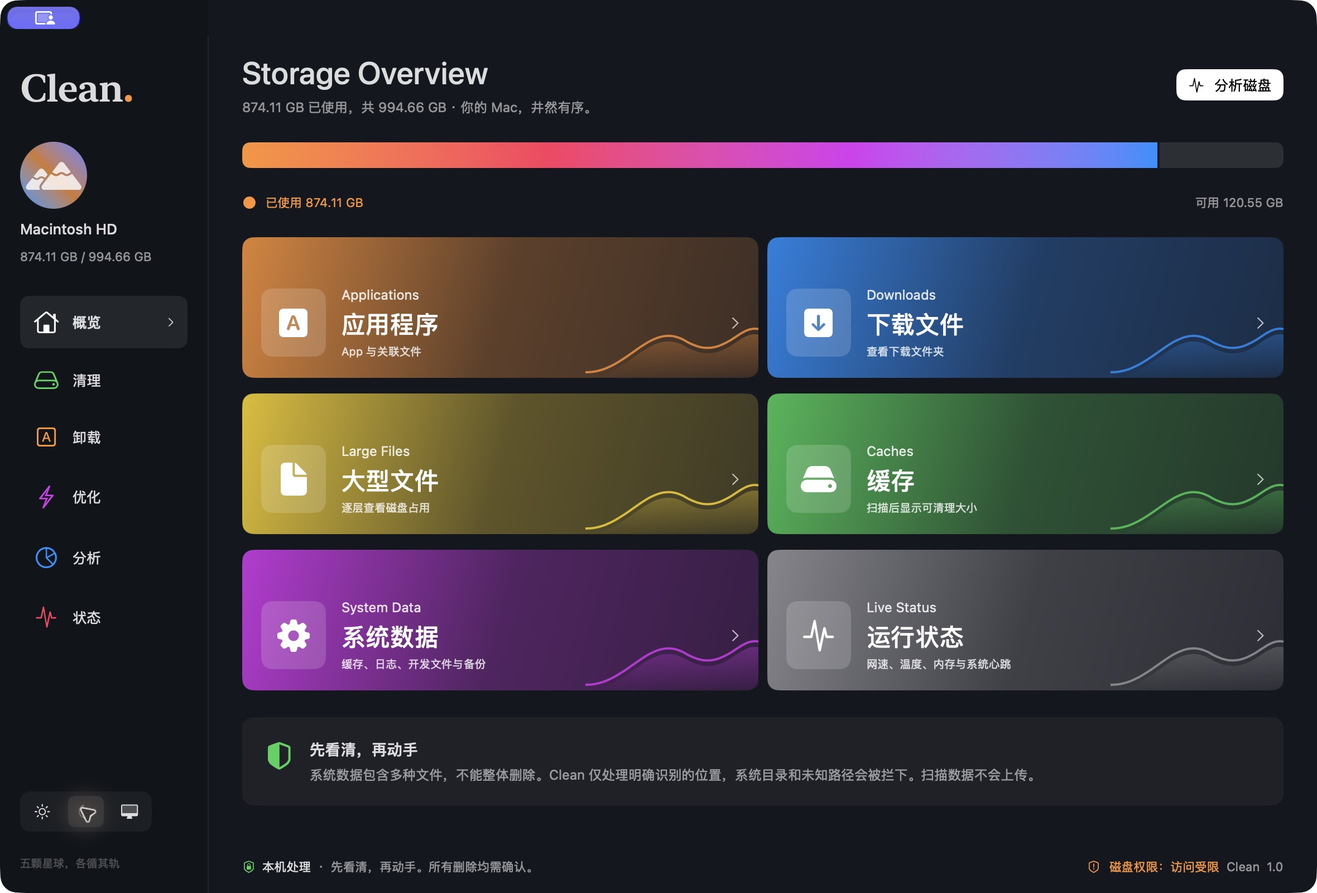
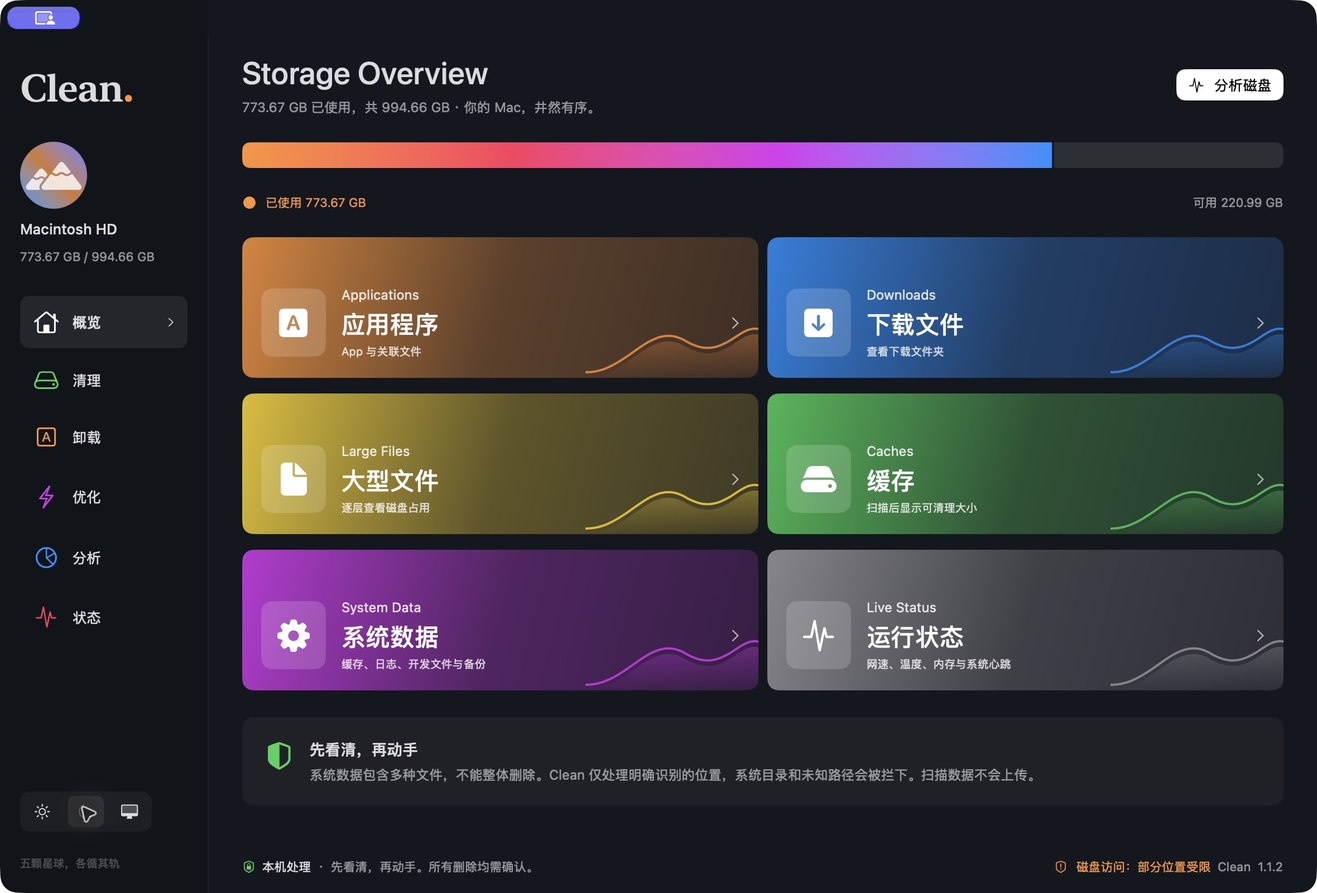
Fix analyzed data selection and prepare Clean 1.1.2

diff --git a/docs/index.html b/docs/index.html
@@ -36,7 +36,7 @@
           ></a
         >
         <div class="nav-links">
-          <a href="#film">产品短片</a><a href="#features">五个入口</a><a href="#preview">界面一览</a
+          <a href="#whats-new">本次更新</a><a href="#film">产品短片</a><a href="#features">五个入口</a><a href="#preview">界面一览</a
           ><a href="#safety">安全边界</a
           ><a href="https://github.com/bennix/Clean"
             >GitHub <span aria-hidden="true">↗</span></a
@@ -53,20 +53,20 @@
         <div class="wrap hero-copy">
           <a
             class="release-pill"
-            href="https://github.com/bennix/Clean/releases/tag/v1.1.1"
-            ><span class="live-dot"></span> Clean 1.1.1 现已发布
+            href="https://github.com/bennix/Clean/releases/tag/v1.1.2"
+            ><span class="live-dot"></span> Clean 1.1.2 · 看清占用，选得明白
             <span aria-hidden="true">↗</span></a
           >
           <h1 id="hero-title">
             给 Mac 一点<br /><span class="soft-heading">呼吸的空间。</span>
           </h1>
           <p class="hero-description">
-            从堆积的缓存，到藏得很深的大文件。<br />用一个安静的原生应用，看清、整理，然后轻装再行。
+            从堆积的缓存，到藏得很深的虚拟机与模型。<br />看清每一层占用，审查每一次清理。让空间回到你手里。
           </p>
           <div class="hero-actions">
             <a
               class="button button-dark button-large"
-              href="https://github.com/bennix/Clean/releases/download/v1.1.1/Clean-1.1.1-AppleSilicon.dmg"
+              href="https://github.com/bennix/Clean/releases/download/v1.1.2/Clean-1.1.2-AppleSilicon.dmg"
               ><svg
                 width="20"
                 height="20"
@@ -83,7 +83,7 @@
               >观看 30 秒产品短片 <span aria-hidden="true">↘</span></a
             >
           </div>
-          <p class="compatibility">Apple Silicon · macOS 27+ · 约 4.9 MB</p>
+          <p class="compatibility">Apple Silicon · macOS 27+ · 约 4.2 MB</p>
         </div>
         <figure class="hero-visual wrap">
           <div class="window-toolbar">
@@ -136,6 +136,20 @@
           >源码公开可查看</span
         >
       </div>
+
+      <section id="whats-new" class="section wrap release-section" aria-labelledby="release-title">
+        <div class="release-heading">
+          <p class="section-label">NEW IN 1.1.2 / 选择，更清楚了</p>
+          <h2 id="release-title">藏得深，<br /><span>也看得明白。</span></h2>
+          <p>虚拟机、离线模型、开发缓存，占用可能藏在隐藏目录里。现在，已识别的数据子项可以勾选审查；需要保留的项目，会直接告诉你原因。</p>
+          <a class="text-link" href="https://github.com/bennix/Clean/releases/tag/v1.1.2">查看完整更新 ↗</a>
+        </div>
+        <div class="release-editorial">
+          <article><span class="release-index">01</span><div><h3>让大文件，重新可选。</h3><p>修复 Colima 数据无法勾选的问题。扩展模型、Docker 虚拟机及 npm、Cargo、Gradle 等已识别数据目录的选择范围。</p><div class="path-tags"><code>.colima</code><code>.ollama/models</code><code>.cache</code></div></div></article>
+          <article><span class="release-index">02</span><div><h3>有些项目保留，是有原因的。</h3><p>密钥、配置、常用文件夹根目录继续保护。统计尚未完成或读取不完整时，列表直接显示说明，避免对着灰色勾选框猜原因。</p></div></article>
+          <article><span class="release-index">03</span><div><h3>每条清理路径，都先经过审查。</h3><p>右键与批量选择统一进入审查页。虚拟机、模型与备份提示数据影响；确认后移入废纸篓，清空废纸篓才会释放空间。</p></div></article>
+        </div>
+      </section>
 
       <section id="film" class="section wrap product-film" aria-labelledby="film-title">
         <div class="section-heading">
@@ -209,7 +223,7 @@
               <span class="planet planet-blue" aria-hidden="true"></span>
               <h3>分析<span>远目成图，微处可见。</span></h3>
               <p>
-                用矩形树图查看目录占用，逐层深入。最多 4
+                用矩形树图查看目录占用，逐层深入。支持已识别隐藏数据的勾选审查，禁选原因直接显示。最多 4
                 路后台并发，结果边扫边显示，随时取消。
               </p>
             </article>
@@ -392,9 +406,13 @@
             </p>
           </details>
           <details>
+            <summary>为什么有些文件不能勾选？<span aria-hidden="true">+</span></summary>
+            <p>1.1.2 会在分析列表里显示原因：可能是密钥或配置等受保护位置、应保留的根目录、符号链接，或扫描尚未完成、读取不完整。Colima、模型和开发缓存等已识别数据目录开放子项审查，Library 仅开放已识别的缓存、日志、构建文件与备份子项。可进入目录继续查看；“不能勾选”不一定是权限问题。</p>
+          </details>
+          <details>
             <summary>支持哪些 Mac？<span aria-hidden="true">+</span></summary>
             <p>
-              当前 1.1.1 安装包支持搭载 Apple Silicon 的 Mac，需要 macOS 27
+              当前 1.1.2 安装包支持搭载 Apple Silicon 的 Mac，需要 macOS 27
               或更新版本，暂未提供 Intel 安装包。温度传感器和 GPU
               数据的可用性因机型而异。
             </p>
@@ -435,7 +453,7 @@
               当前版本还有哪些限制？<span aria-hidden="true">+</span>
             </summary>
             <p>
-              1.1.1
+              1.1.2
               已提供五个功能入口，但尚未覆盖所有缓存类型、完整维护任务、进程监控与指标排序置顶。Time
               Machine 目前只支持查看本地快照，不自动精简或删除。完整范围可在仓库
               README 中查看。
@@ -457,15 +475,15 @@
           <h2>从今天起，<br />轻装一点。</h2>
           <a
             class="button button-dark button-large"
-            href="https://github.com/bennix/Clean/releases/download/v1.1.1/Clean-1.1.1-AppleSilicon.dmg"
-            >下载 Clean 1.1.1 <span aria-hidden="true">↓</span></a
+            href="https://github.com/bennix/Clean/releases/download/v1.1.2/Clean-1.1.2-AppleSilicon.dmg"
+            >下载 Clean 1.1.2 <span aria-hidden="true">↓</span></a
           >
-          <p class="compatibility">Apple Silicon · macOS 27+ · 约 4.9 MB</p>
+          <p class="compatibility">Apple Silicon · macOS 27+ · 约 4.2 MB</p>
           <div class="download-meta">
-            <a href="https://github.com/bennix/Clean/releases/tag/v1.1.1"
+            <a href="https://github.com/bennix/Clean/releases/tag/v1.1.2"
               >发行说明 ↗</a
             ><a
-              href="https://github.com/bennix/Clean/releases/download/v1.1.1/Clean-1.1.1-AppleSilicon.dmg.sha256"
+              href="https://github.com/bennix/Clean/releases/download/v1.1.2/Clean-1.1.2-AppleSilicon.dmg.sha256"
               >SHA-256 校验值 ↗</a
             >
           </div>

diff --git a/CleanMac/ContentView.swift b/CleanMac/ContentView.swift
@@ -35,7 +35,6 @@ struct ContentView: View {
     @State private var allowSystemAuthorization = false
     @State private var removeDockEntries = true
     @State private var quitCleanupApplications = false
-    @State private var trashTarget: DiskEntry?
     @State private var folder = DiskService.home
     @State private var search = ""
     @State private var used: Int64 = 0
@@ -70,7 +69,7 @@ struct ContentView: View {
                         Label(diskAccess.state.title, systemImage: diskAccess.state == .limited ? "exclamationmark.shield" : "lock.shield")
                             .foregroundStyle(diskAccess.state == .limited ? Color.orange : Color.secondary)
                     }.buttonStyle(.plain).help("查看磁盘权限及授权步骤")
-                    Text("Clean  1.1.1")
+                    Text("Clean  1.1.2")
                 }.font(.system(size: 11)).foregroundStyle(.secondary)
             }.padding(30).frame(maxWidth: .infinity, maxHeight: .infinity, alignment: .topLeading)
         }
@@ -97,15 +96,7 @@ struct ContentView: View {
             }.padding(26).frame(width: 650)
         }
         .sheet(isPresented: $confirm, onDismiss: { cancelReview(); presentDiskAccessIfNeeded() }) { confirmation }
-        .confirmationDialog("移入系统废纸篓？", isPresented: Binding(get: { trashTarget != nil }, set: { if !$0 { trashTarget = nil } }), titleVisibility: .visible) {
-            Button("移入废纸篓", role: .destructive) {
-                guard let entry = trashTarget, DiskService.canTrashAnalyzed(entry.url) else { return }
-                do { _ = try FileManager.default.trashItem(at: entry.url, resultingItemURL: nil); scan(); refreshDisk() }
-                catch { message = error.localizedDescription }
-                trashTarget = nil
-            }
-            Button("取消", role: .cancel) { trashTarget = nil }
-        } message: { Text(trashTarget?.url.path ?? "") }
+
     }
 
     private func presentDiskAccessIfNeeded() {
@@ -269,12 +260,16 @@ struct ContentView: View {
                 ScrollView {
                     LazyVStack(spacing: 0) {
                         ForEach(visible) { entry in
+                            let disabledReason = ScanSelection.disabledReason(entry, mode: selectionMode)
                             HStack(spacing: 12) {
-                                Toggle("选择 " + entry.name, isOn: Binding(get: { selected.contains(entry.id) }, set: { if $0 { selected.insert(entry.id) } else { selected.remove(entry.id) } })).labelsHidden().disabled(busy || !ScanSelection.canSelect(entry, mode: selectionMode))
+                                Toggle("选择 " + entry.name, isOn: Binding(get: { selected.contains(entry.id) }, set: { if $0 { selected.insert(entry.id) } else { selected.remove(entry.id) } })).labelsHidden().disabled(busy || disabledReason != nil).help(busy ? "扫描或处理进行中，请稍候" : disabledReason ?? "选择此项目进行审查")
                                 Image(nsImage: NSWorkspace.shared.icon(forFile: entry.url.path)).resizable().frame(width: 30, height: 30)
                                 VStack(alignment: .leading, spacing: 4) {
                                     Text(entry.name).font(.system(size: 12, weight: .medium)).lineLimit(1)
                                     Text(entry.category + (entry.sensitive ? " · 个人数据，请仔细确认" : "") + " · " + entry.url.deletingLastPathComponent().path).font(.system(size: 10)).foregroundStyle(.secondary).lineLimit(1).truncationMode(.middle)
+                                    if page == .analyze, let disabledReason {
+                                        Text(disabledReason).font(.system(size: 10)).foregroundStyle(.orange).fixedSize(horizontal: false, vertical: true)
+                                    }
                                 }
                                 Spacer()
                                 if page == .uninstall { AppUsageColumns(url: entry.url) }
@@ -285,7 +280,7 @@ struct ContentView: View {
                                 Button("在 Finder 中显示") { NSWorkspace.shared.activateFileViewerSelecting([entry.url]) }
                                 if page == .analyze {
                                     Button("打开") { enter(entry) }
-                                    Button("移入废纸篓…", role: .destructive) { trashTarget = entry }.disabled(busy || !entry.isComplete || !DiskService.canTrashAnalyzed(entry.url))
+                                    Button("审查并移入废纸篓…", role: .destructive) { selected = [entry.id]; confirm = true }.disabled(busy || disabledReason != nil)
                                 }
                             }
                             Divider().opacity(0.35)
@@ -336,6 +331,10 @@ struct ContentView: View {
             Text(page == .uninstall ? "审查应用与关联文件" : "最后确认一下").font(.title2.bold())
             Text(page == .uninstall ? "所选应用与勾选的关联文件将移入废纸篓。含个人数据的目录默认不勾选；仍被其他应用使用的共享容器和系统服务会保留。" : page == .analyze ? "所选文件或文件夹将移入系统废纸篓，可从废纸篓恢复。请仔细核对路径和大小；受保护位置、未完成或无法完整统计的项目不会加入全选。" : "普通缓存和日志将永久删除；标记个人数据或共享容器的项目将移入废纸篓。请先退出相关应用。缓存会重新生成，大小不等于实际释放空间。")
                 .font(.callout)
+            if page == .analyze {
+                Text("虚拟机、模型、备份及开发文件可能包含重要数据。请先停止相关应用或虚拟机；移除数据可能导致容器、镜像、卷或离线模型不可用。清空废纸篓后才会释放空间。")
+                    .font(.callout).foregroundStyle(.orange)
+            }
             if page == .uninstall && reviewTask != nil {
                 HStack { ProgressView().controlSize(.small); Text("并行统计关联文件：\(uninstallPlan?.completed ?? 0) / \(uninstallPlan?.files.count ?? 0)").font(.caption) }
             }

diff --git a/CleanMacTests/CleanMacTests.swift b/CleanMacTests/CleanMacTests.swift
@@ -183,6 +183,43 @@ struct DiskAccessRecoveryTests {
 }
 
 struct ScanSelectionTests {
+    @Test func analysisAllowsColimaContentsButProtectsOtherHiddenDirectories() {
+        let home = DiskService.home
+        let lima = DiskEntry(url: home.appendingPathComponent(".colima/_lima"), bytes: 1, category: "文件", sensitive: false)
+        #expect(ScanSelection.canSelect(lima, mode: .analyze))
+        #expect(!ScanSelection.canSelect(lima, mode: .clean))
+        #expect(!DiskService.canTrashAnalyzed(home.appendingPathComponent(".colima")))
+        #expect(!DiskService.canTrashAnalyzed(home.appendingPathComponent(".ssh/id_ed25519")))
+        #expect(!DiskService.canTrashAnalyzed(home.appendingPathComponent(".colima-backup/data")))
+        #expect(!ScanSelection.canSelect(DiskEntry(url: lima.url, bytes: 1, category: "文件", sensitive: false, isPartial: true), mode: .analyze))
+    }
+    @Test func analysisRecognizesDataDirectoriesWithoutOpeningCredentials() {
+        let home = DiskService.home
+        for path in [".colima/default/disk", ".cache/huggingface/model", ".npm/_cacache/data", ".ollama/models/blobs/model", ".docker/desktop/vms/0/data", ".cargo/registry/src/crate", ".cargo/git/db/repo", ".gradle/caches/modules/data", ".gradle/wrapper/dists/gradle", "Library/Caches/app/nested/cache", "Library/Logs/app/log", "Library/Developer/Xcode/DerivedData/project/Build", "Library/Application Support/MobileSync/Backup/device/file", "Library/Containers/com.example.app/Data/Library/Caches/app/nested/file", "Library/Application Support/Google/Chrome/Default/Cache/Cache_Data/file"] {
+            #expect(DiskService.canTrashAnalyzed(home.appendingPathComponent(path)), "Expected selectable: \(path)")
+        }
+        for path in [".ssh/key", ".gnupg/key", ".aws/credentials", ".config/tool/config", ".docker/config.json", ".docker/contexts/meta", ".ollama/id_ed25519", ".cargo/credentials.toml", ".gradle/gradle.properties", ".cache-other/data", ".colima/../../etc/passwd", "Library/Keychains/login.keychain-db", "Library/Preferences/app.plist", "Library/Application Support/app/database", "Library/Caches", "Library/Containers/com.example.app/Data/Documents/file", "Library/Application Support/Google/Chrome/Default/Cookies"] {
+            #expect(!DiskService.canTrashAnalyzed(home.appendingPathComponent(path)), "Expected protected: \(path)")
+        }
+    }
+    @Test func analysisReportsProtectionAndIncompleteScanReasons() {
+        let url = DiskService.home.appendingPathComponent(".ssh/key")
+        #expect(ScanSelection.disabledReason(DiskEntry(url: url, bytes: 0, category: "文件", sensitive: false), mode: .analyze)?.contains("受保护") == true)
+        #expect(ScanSelection.disabledReason(DiskEntry(url: url, bytes: 0, category: "文件", sensitive: false, isComplete: false), mode: .analyze)?.contains("等待统计") == true)
+        #expect(ScanSelection.disabledReason(DiskEntry(url: url, bytes: 0, category: "文件", sensitive: false, isPartial: true), mode: .analyze)?.contains("统计不完整") == true)
+    }
+    @Test func analysisRejectsSymlinksAndSymlinkAncestors() throws {
+        let fm = FileManager.default
+        let home = fm.temporaryDirectory.resolvingSymlinksInPath().appendingPathComponent(UUID().uuidString)
+        try fm.createDirectory(at: home.appendingPathComponent(".cache"), withIntermediateDirectories: true)
+        defer { try? fm.removeItem(at: home) }
+        let link = home.appendingPathComponent(".cache/escape")
+        try fm.createSymbolicLink(at: link, withDestinationURL: URL(fileURLWithPath: "/System"))
+        #expect(DiskService.analyzedProtectionReason(link, home: home)?.contains("符号链接") == true)
+        #expect(DiskService.analyzedProtectionReason(link.appendingPathComponent("Library"), home: home)?.contains("符号链接") == true)
+        #expect(DiskService.analyzedProtectionReason(home.appendingPathComponent(".cache/../.ssh/key"), home: home) != nil)
+        #expect(DiskService.analyzedProtectionReason(URL(fileURLWithPath: home.path + "-other/.cache/file"), home: home) != nil)
+    }
     @Test func bulkCleanupExcludesRootAndUnfinishedEntries() {
         let root = DiskService.home.appendingPathComponent("Library/Caches")
         let file = root.appendingPathComponent("clean-selection-test")

diff --git a/CleanMac/DiskService.swift b/CleanMac/DiskService.swift
@@ -112,13 +112,34 @@ nonisolated enum DiskService {
         return "已移入废纸篓 \(count) 项。" + (failures.isEmpty ? "" : "\n未完成：\n" + failures.joined(separator: "\n"))
     }
     static func canTrashAnalyzed(_ url: URL) -> Bool {
+        analyzedProtectionReason(url) == nil
+    }
+    static func analyzedProtectionReason(_ url: URL, home: URL = home) -> String? {
         let path = url.standardizedFileURL.path
-        let base = home.path + "/"
-        guard path.hasPrefix(base), url.resolvingSymlinksInPath().path == path else { return false }
+        let base = home.standardizedFileURL.path + "/"
+        guard path.hasPrefix(base) else { return "受保护：仅支持处理当前用户目录内的项目" }
+        guard url.resolvingSymlinksInPath().path == path else { return "受保护：符号链接或路径经过符号链接" }
         let relative = String(path.dropFirst(base.count))
         let first = relative.split(separator: "/").first.map(String.init) ?? ""
-        return !first.isEmpty && !first.hasPrefix(".") && first != "Library"
-            && !["Desktop", "Documents", "Downloads", "Movies", "Music", "Pictures", "Public", "Applications"].contains(relative)
+        let dataRoots = [".colima", ".cache", ".npm", ".bun/install/cache", ".yarn/berry/cache",
+                         ".ollama/models", ".docker/desktop/vms", ".cargo/registry", ".cargo/git",
+                         ".gradle/caches", ".gradle/wrapper/dists"]
+        if dataRoots.contains(where: { relative.hasPrefix($0 + "/") }) { return nil }
+        if first == "Library" {
+            if CleanupCatalog.baseRules(home: home).contains(where: { path.hasPrefix($0.root.path + "/") }) { return nil }
+            // Also recognize browser and sandbox cache descendants without opening their parent data directories.
+            var candidate = url.standardizedFileURL
+            while candidate.path.hasPrefix(base + "Library/") {
+                if CleanupCatalog.rule(for: candidate, home: home) != nil { return nil }
+                candidate.deleteLastPathComponent()
+            }
+            return "受保护：Library 仅开放已识别的缓存、日志、构建文件和备份的子项，请进入相应目录"
+        }
+        if first.hasPrefix(".") { return "受保护：仅开放已识别的数据目录子项，密钥、配置及其他隐藏项目保留" }
+        if ["Desktop", "Documents", "Downloads", "Movies", "Music", "Pictures", "Public", "Applications"].contains(relative) {
+            return "受保护：保留常用文件夹本身，请进入后选择子项"
+        }
+        return nil
     }
 
 }

diff --git a/docs/style.css b/docs/style.css
@@ -1101,3 +1101,19 @@ details[open] summary > span {
 .film-transcript summary { cursor:pointer; font-size:14px; font-weight:600; }
 .film-transcript a { text-decoration:underline; text-underline-offset:4px; }
 @media(max-width:700px) { .product-film {padding-top:65px;} .film-player video{border-radius:10px;} .film-notes{grid-template-columns:1fr;gap:0;} }
+
+/* Release editorial: generous typography, quiet green accents, real product context. */
+.release-section { display: grid; grid-template-columns: 0.9fr 1.1fr; gap: 100px; border-bottom: 1px solid var(--line); }
+.release-heading h2 { font-size: clamp(38px, 4.5vw, 64px); line-height: 1.2; letter-spacing: -2px; margin: 22px 0; }
+.release-heading h2 span { color: #78896d; }
+.release-heading > p:not(.section-label) { color: var(--muted); font-size: 15px; line-height: 2; max-width: 360px; }
+.release-heading .text-link { margin-top: 18px; font-size: 13px; }
+.release-editorial article { display: grid; grid-template-columns: 38px 1fr; gap: 18px; padding: 28px 0; border-top: 1px solid var(--line); }
+.release-editorial article:first-child { padding-top: 0; border-top: 0; }
+.release-index { color: #6d8760; font-family: Georgia, serif; font-size: 24px; padding-top: 3px; }
+.release-editorial h3 { font-size: 21px; font-weight: 550; margin: 0 0 12px; letter-spacing: -.5px; }
+.release-editorial p { color: var(--muted); font-size: 13px; line-height: 1.95; margin: 0; }
+.path-tags { display: flex; flex-wrap: wrap; gap: 8px; margin-top: 17px; }
+.path-tags code { font-size: 11px; background: #e7eddf; border: 1px solid #d8e0cd; border-radius: 5px; padding: 6px 9px; color: #436038; }
+@media (max-width: 1000px) { .release-section { gap: 50px; } .nav-links { gap: 15px; } }
+@media (max-width: 700px) { .release-section { grid-template-columns: 1fr; gap: 36px; } .release-heading > p:not(.section-label) { max-width: none; } .release-heading h2 { font-size: 42px; } }

diff --git a/CleanMac/ScanSelection.swift b/CleanMac/ScanSelection.swift
@@ -3,11 +3,15 @@ import Foundation
 nonisolated enum ScanSelection {
     enum Mode { case clean, uninstall, analyze }
     static func canSelect(_ entry: DiskEntry, mode: Mode) -> Bool {
-        guard entry.isComplete, !entry.isPartial else { return false }
+        disabledReason(entry, mode: mode) == nil
+    }
+    static func disabledReason(_ entry: DiskEntry, mode: Mode) -> String? {
+        guard entry.isComplete else { return "等待统计完成后可选择" }
+        guard !entry.isPartial else { return "统计不完整：请检查读取错误与访问权限后重新扫描" }
         switch mode {
-        case .clean: return DiskService.canDelete(entry.url)
-        case .uninstall: return UninstallService.validApp(entry.url)
-        case .analyze: return DiskService.canTrashAnalyzed(entry.url)
+        case .clean: return DiskService.canDelete(entry.url) ? nil : "受保护：不在已识别的清理范围内"
+        case .uninstall: return UninstallService.validApp(entry.url) ? nil : "受保护：不是可卸载的应用"
+        case .analyze: return DiskService.analyzedProtectionReason(entry.url)
         }
     }
     static func eligibleIDs(_ entries: [DiskEntry], mode: Mode) -> Set<String> {

diff --git a/README.md b/README.md
@@ -2,9 +2,9 @@
 
 # Clean
 
-[简体中文官网](https://bennix.github.io/Clean/) · [下载公证 DMG](https://github.com/bennix/Clean/releases/download/v1.1.1/Clean-1.1.1-AppleSilicon.dmg) · [发行说明](https://github.com/bennix/Clean/releases/tag/v1.1.1)
+[简体中文官网](https://bennix.github.io/Clean/) · [下载公证 DMG](https://github.com/bennix/Clean/releases/download/v1.1.2/Clean-1.1.2-AppleSilicon.dmg) · [发行说明](https://github.com/bennix/Clean/releases/tag/v1.1.2)
 
-> **当前版本：1.1.1 · Apple Silicon · macOS 27+**
+> **当前版本：1.1.2 · Apple Silicon · macOS 27+**
 > 应用与 DMG 均经 Developer ID 签名、Apple 公证并附加票据。
 
 ![Clean 深色实际运行界面](docs/assets/overview-dark.png)
@@ -14,6 +14,13 @@
 ## 运行
 
 打开 `CleanMac.xcodeproj`，选择 `CleanMac` scheme 运行。构建产品、窗口和菜单名称为 **Clean**，内部 Swift module 保留 CleanMac。完整图标位于 Assets.xcassets/AppIcon.appiconset，设计源图位于 Design/Clean-Icon-Source.png。
+
+## 1.1.2 更新
+
+- 修复 `.colima` 内项目无法勾选；分析页开放已识别的隐藏数据、模型、开发缓存和 Library 缓存、日志、构建文件及备份的子项。
+- 未识别隐藏目录、密钥、配置、常用文件夹根目录及符号链接继续保护。禁选时显示原因，统计不完整时提示检查访问权限。
+- 右键与批量清理统一进入审查页，提示虚拟机、模型和备份的数据影响。分析操作移入废纸篓，清空废纸篓前仍占用空间。
+- Release 构建不注入调试权限，发行应用和 DMG 均使用 Developer ID 签名及 Apple 公证。
 
 ## 当前实现
 
@@ -45,7 +52,7 @@
 
 `xcodebuild -project CleanMac.xcodeproj -scheme CleanMac -configuration Debug CODE_SIGNING_ALLOWED=NO -only-testing:CleanMacTests test`
 
-27 项测试覆盖路径边界、符号链接逃逸、分析页废纸篓边界、只读扫描、并发统计一致性、取消、应用过滤、读取错误分类、未知卸载目标、Dock 精确匹配及监控数据处理。开发验证不对用户真实缓存执行删除，也不执行管理员维护。
+31 项测试覆盖路径边界、符号链接逃逸、分析页废纸篓边界、只读扫描、并发统计一致性、取消、应用过滤、读取错误分类、未知卸载目标、Dock 精确匹配及监控数据处理。开发验证不对用户真实缓存执行删除，也不执行管理员维护。
 
 ## 安装与权限
 
